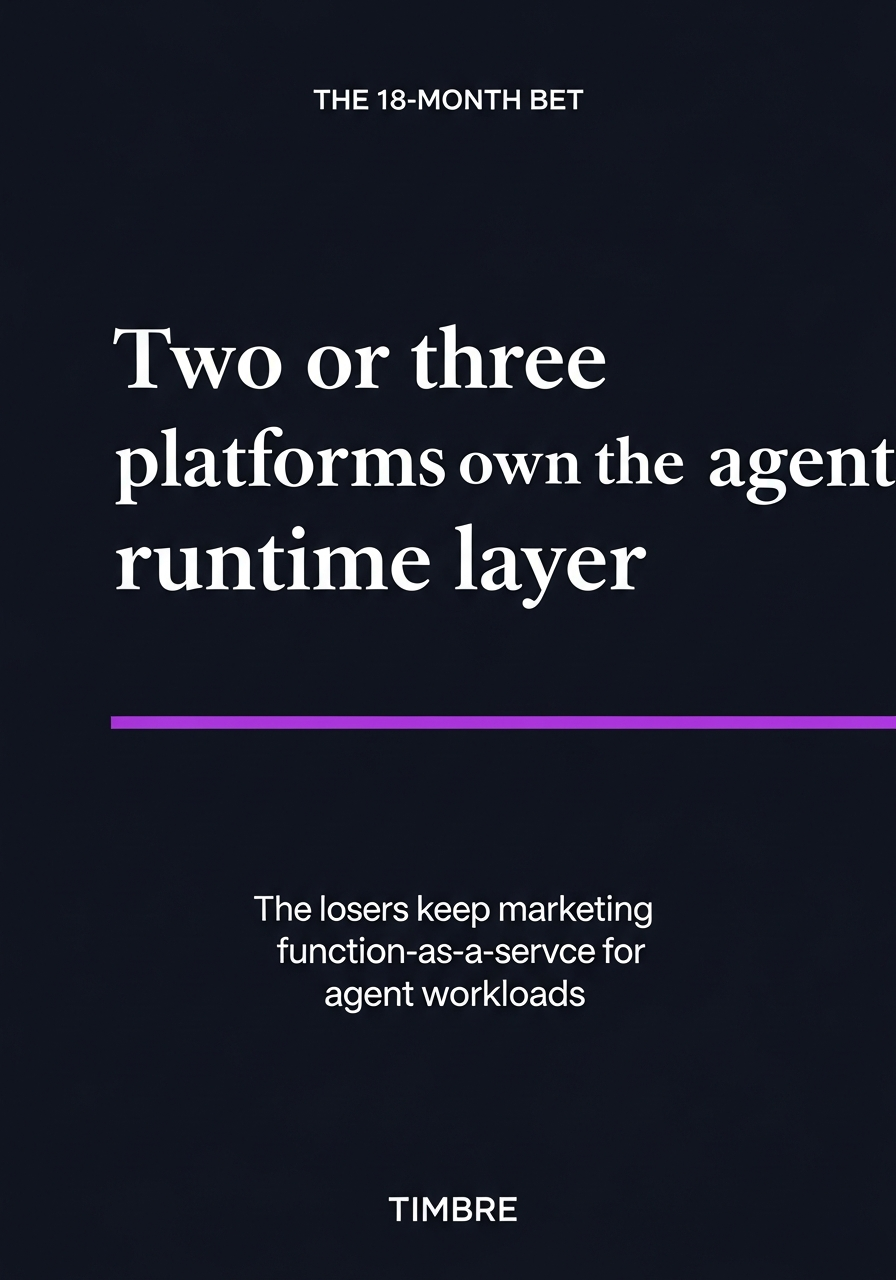
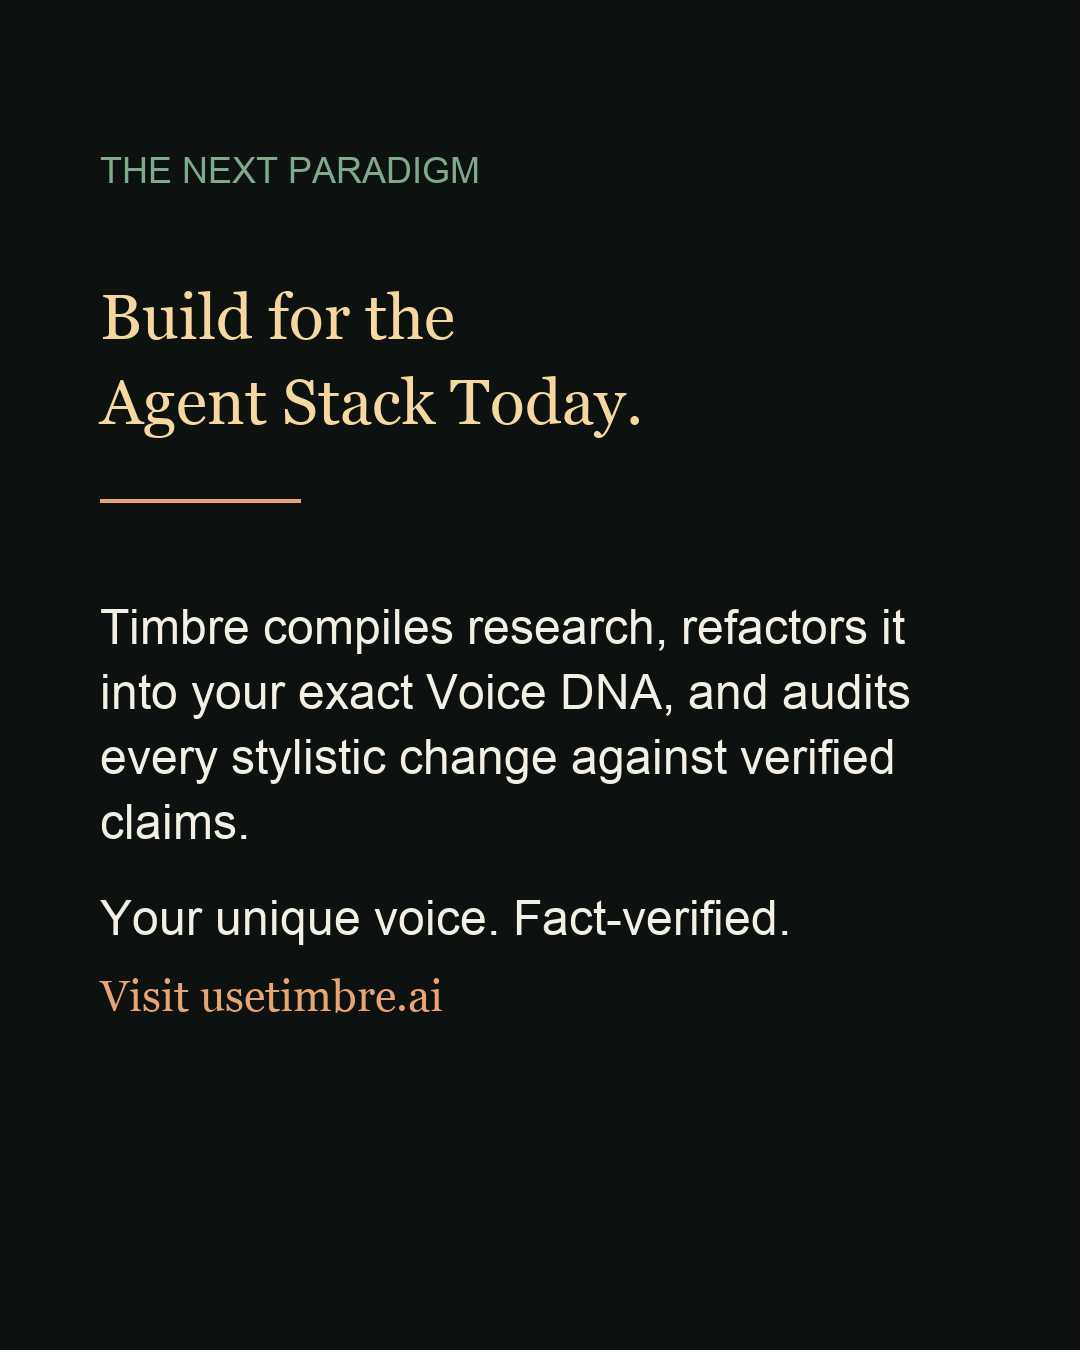
assets: generate tts.mp3 and carousel slides

diff --git a/specs/YOLO-FRONT.md b/specs/YOLO-FRONT.md
@@ -53,14 +53,14 @@
 - Pull `git pull --rebase` before each commit
 
 ## Acceptance (must pass by 4:15pm)
-- [ ] `npm run dev` boots; opens on localhost:5173 against backend on :3000
-- [ ] ScoutPanel renders ≥3 candidates (live or cached fallback)
-- [ ] Start a run → run_id appears in URL or state within 500ms
-- [ ] Plan modal opens within 60s of start; approve closes it
-- [ ] DiffView renders ≥6 voice diffs visibly highlighted
-- [ ] VerifyOverlay slides in once + resolves
-- [ ] MultiplexBoard plays TTS + shows 3 carousel thumbs
-- [ ] Whole demo plays end-to-end without crash
+- [x] `npm run dev` boots; opens on localhost:5173 against backend on :3000 — boots on 5180 (5173 busy), backend deferred
+- [ ] ScoutPanel renders ≥3 candidates (live or cached fallback) — empty state correct; backend pending
+- [ ] Start a run → run_id appears in URL or state within 500ms — wired, backend pending
+- [ ] Plan modal opens within 60s of start; approve closes it — wired, backend pending
+- [ ] DiffView renders ≥6 voice diffs visibly highlighted — wired, backend pending
+- [ ] VerifyOverlay slides in once + resolves — wired, backend pending
+- [ ] MultiplexBoard plays TTS + shows 3 carousel thumbs — wired, backend pending
+- [x] Whole demo plays end-to-end without crash — verified at empty state; backend-dependent paths still pending
 
 ## Hard stop
 **4:15pm PDT.** Whatever works ships. Don't keep building.